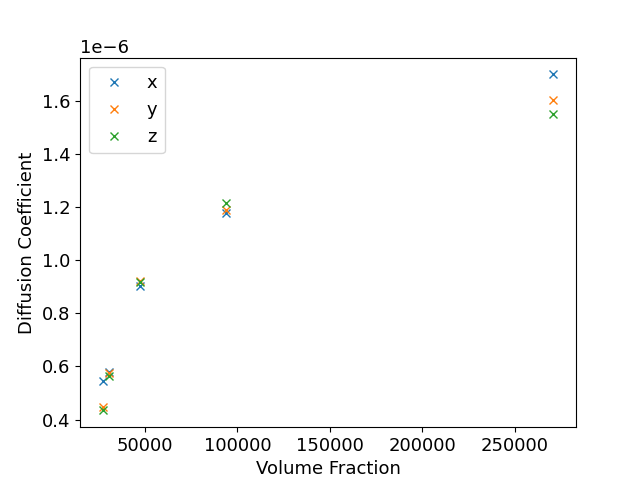
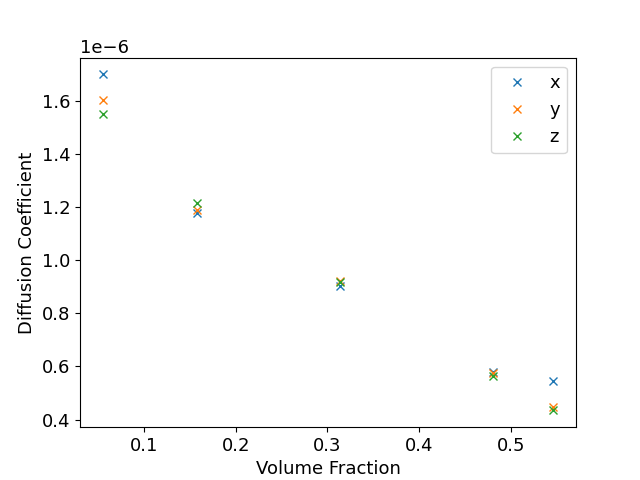
continual rms displacement with periodic BC

diff --git a/Phase_Structure/Nunchucks/Fixed_Rigidity/diffusion_coeff.py b/Phase_Structure/Nunchucks/Fixed_Rigidity/diffusion_coeff.py
@@ -141,9 +141,14 @@ else:
 
 volume_values = np.full(len(time_range), np.nan)  # new array of NaN
 
+# for ongoing measurements:
+rms_time_values = []
+rms_disp_values = []
+
 # for sampled measurements:
 sampled_D_values = np.full((len(mix_steps_values), dimension_num), np.nan)
 sampled_vol_values = np.full(len(mix_steps_values), np.nan)
+equilibrium_flag = False  # denotes whether system is currently in an equillibrium run
 
 extra_displacement = np.zeros((N_molecules, 3))
 # additional values to account for crossing the boundaries of the box
@@ -200,12 +205,13 @@ for i, time in enumerate(time_range):  # interate over dump files
     data_file.close()  # close data_file for time step t
     volume_values[i] = box_volume
 
-    if time != 0:  # skip this for the first step
+    if time != 0:  # GIVE PREVIOUS DISPLACEMENT
         extra_displacement += periodic_bc_displacement(
             com_positions, previous_positions, box_dimensions
         )
 
-    if time in sampling_times:
+    if time in sampling_times:  # MEASURE SAMPLING POINTS
+        print("T = " + str(time) + "/" + str(run_time))
         where_output = np.where(sampling_times == time)
         indices = (where_output[0][0], where_output[1][0])
         if indices[1] == 0:  # start of sampling period
@@ -213,6 +219,7 @@ for i, time in enumerate(time_range):  # interate over dump files
             sampled_vol_values[indices[0]] = box_volume
 
             extra_displacement = np.zeros_like(com_positions)  # reset for each sample
+            equilibrium_flag = True
         else:  # end of sampling period
             # print(extra_displacement) # useful to check you aren't getting silly values/multiple crossings
             sampled_rms = rms_displacement(
@@ -222,15 +229,31 @@ for i, time in enumerate(time_range):  # interate over dump files
             )  # initial sample taken from previous iteration in if clause
             sampled_D_values[indices[0], :] = sampled_rms / (6 * equilibrium_time)
             # D value for i-th equillibration period
+            equilibrium_flag = False
+
+    if equilibrium_flag:  # MEASURE ONGOING RMS DISPLACEMENT
+        rms_time_values.append(time)
+        current_rms = rms_displacement(
+            com_positions + extra_displacement,  # takes current values
+            initial_sample,  # reset for each eq run
+            use_vector=DIRECTIONAL_COEFF,
+        )
+        rms_disp_values.append(current_rms)
 
     previous_positions = com_positions
-    print("T = " + str(time) + "/" + str(run_time))
+    # print("T = " + str(time) + "/" + str(run_time))
 
 
 # print(sampled_D_values)
 # # NaN values correspond to a misalignment with dump frequency and the ends of each equillibration run
 # print(sampled_vol_values)
 
+
+plt.plot(rms_time_values, rms_disp_values, "x")
+plt.xlabel("Time (Arbitrary Units)")
+plt.ylabel("RMS displacement")
+plt.savefig("rms_displacement_runwise.png")
+plt.show()
 
 for i in range(dimension_num):
     plt.plot(sampled_vol_values, sampled_D_values[:, i], "x", label=axis_labels[i])

diff --git a/Phase_Structure/Nunchucks/Fixed_Rigidity/diffusion_plots.py b/Phase_Structure/Nunchucks/Fixed_Rigidity/diffusion_plots.py
@@ -223,7 +223,7 @@ print("Mean Diffussion Coefficients: " + str(np.nanmean(diffusion_coeff_values))
 for i in range(dimension_num):
     plt.plot(time_range, displacement_values[:, i], label=axis_labels[i])
 plt.xlabel("Time (arbitrary units)")
-plt.ylabel("Diffusion Coefficient")
+plt.ylabel("RMS displacement")
 plt.legend()
 plt.savefig("rms_displacement.png")
 plt.show()
@@ -263,7 +263,12 @@ plt.savefig("order_vs_diffusion.png")
 plt.show()
 
 for i in range(dimension_num):
-    plt.plot(sampled_vol_values, sampled_D_values[:, i], "x", label=axis_labels[i])
+    plt.plot(
+        vol_frac(sampled_vol_values, mol_length, N_molecules),
+        sampled_D_values[:, i],
+        "x",
+        label=axis_labels[i],
+    )
 plt.ylabel("Diffusion Coefficient")
 plt.xlabel("Volume Fraction")
 plt.legend()
